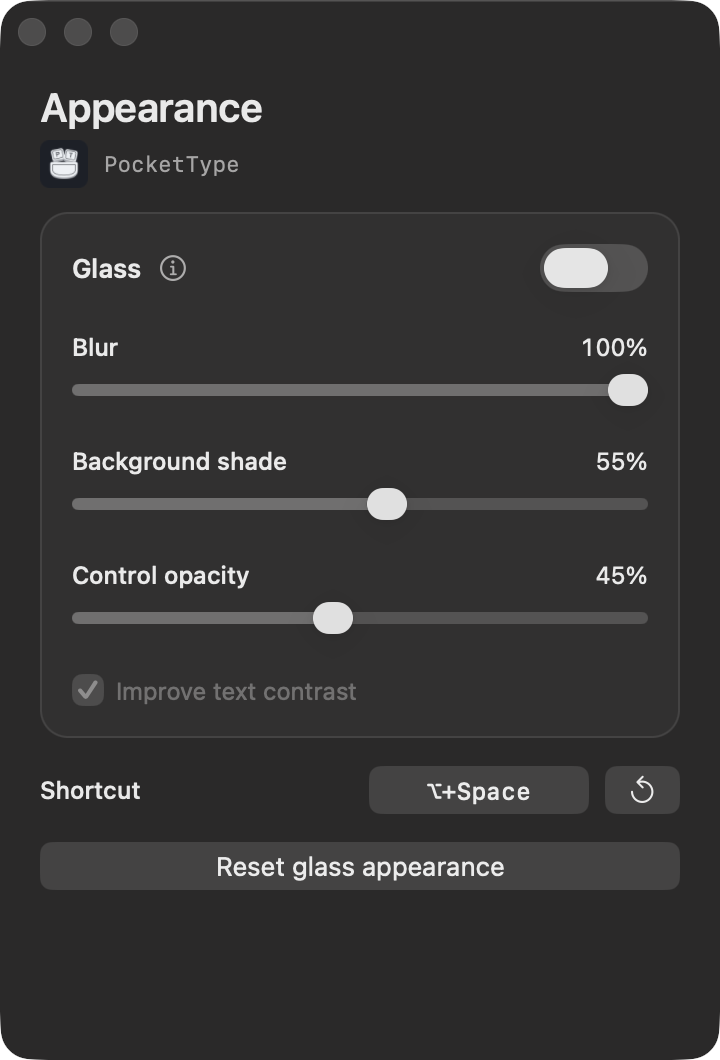
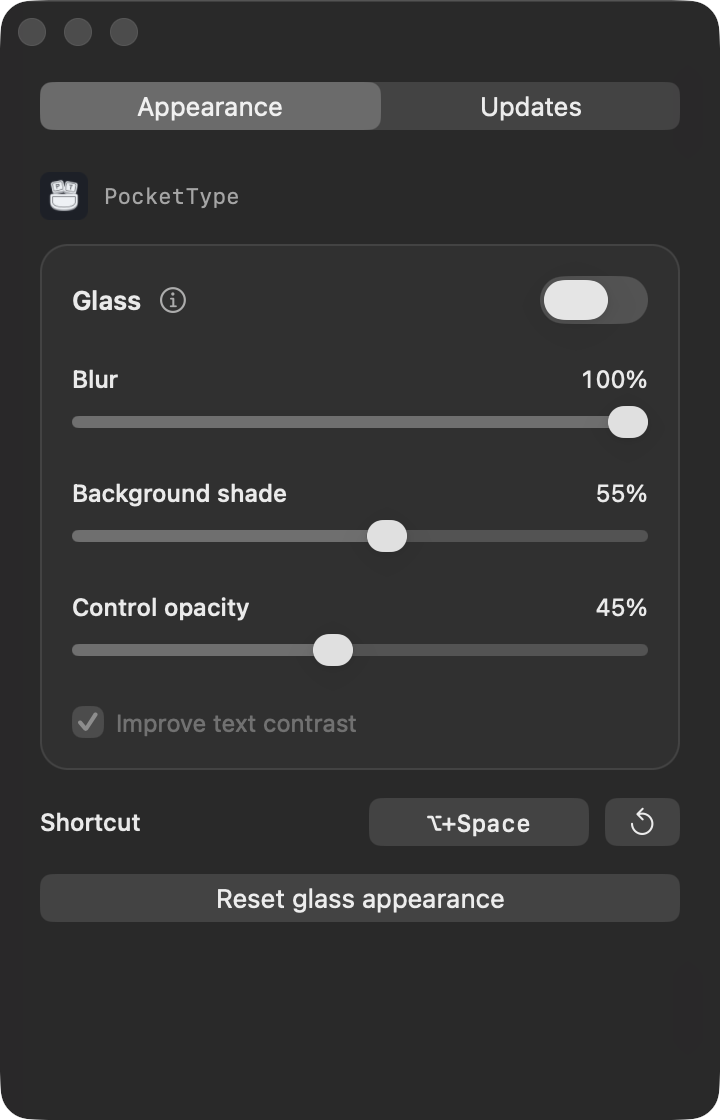
Refresh README and add verified one-command installation

diff --git a/scripts/test_install.py b/scripts/test_install.py
@@ -1,0 +1,110 @@
+"""Exercise the public installer with a signed local app and offline release assets."""
+import hashlib
+import json
+import os
+import plistlib
+import shutil
+import subprocess
+import tempfile
+import unittest
+from pathlib import Path
+
+
+class InstallerTests(unittest.TestCase):
+    @classmethod
+    def setUpClass(cls):
+        cls.fixture = tempfile.TemporaryDirectory()
+        cls.release = Path(cls.fixture.name)
+        app = cls.release / "PocketType.app"
+        (app / "Contents/MacOS").mkdir(parents=True)
+        shutil.copyfile("/usr/bin/true", app / "Contents/MacOS/PocketType")
+        (app / "Contents/MacOS/PocketType").chmod(0o755)
+        (app / "Contents/Info.plist").write_bytes(plistlib.dumps({
+            "CFBundleIdentifier": "com.local.drift.typing", "CFBundleExecutable": "PocketType",
+            "CFBundleVersion": "1.2.3", "CFBundlePackageType": "APPL",
+        }))
+        subprocess.run(["codesign", "--force", "--sign", "-", str(app)], check=True, capture_output=True)
+        cls.archive = cls.release / "PocketType.zip"
+        subprocess.run(["ditto", "-c", "-k", "--keepParent", str(app), str(cls.archive)], check=True)
+        (cls.release / "SHA256SUMS").write_text(hashlib.sha256(cls.archive.read_bytes()).hexdigest() + "  PocketType.zip\n")
+        (cls.release / "release.json").write_text(json.dumps({"tag_name": "v1.2.3"}))
+
+    @classmethod
+    def tearDownClass(cls):
+        cls.fixture.cleanup()
+
+    def setUp(self):
+        self.temp = tempfile.TemporaryDirectory()
+        self.addCleanup(self.temp.cleanup)
+        self.home = Path(self.temp.name)
+        self.dest = self.home / "Applications/PocketType.app"
+        self.bin = self.home / "bin"
+        self.bin.mkdir()
+        self.env = dict(os.environ, HOME=str(self.home), PATH=f"{self.bin}:/usr/bin:/bin:/usr/sbin:/sbin", FIXTURE=str(self.release))
+        self.command("pgrep", "exit 1")
+        self.command("open", 'printf "%s\\n" "$@" > "$HOME/opened"')
+        self.command("curl", '''
+for arg in "$@"; do
+    if [ "${next:-}" = output ]; then output="$arg"; next=""; fi
+    if [ "$arg" = -o ]; then next=output; fi
+    case "$arg" in https://*) url="$arg";; esac
+done
+case "$url" in
+    https://api.github.com/repos/AlexanderHeffernan/PocketType/releases/latest) file=release.json;;
+    https://github.com/AlexanderHeffernan/PocketType/releases/download/v1.2.3/PocketType.zip) file=PocketType.zip;;
+    https://github.com/AlexanderHeffernan/PocketType/releases/download/v1.2.3/SHA256SUMS) file=SHA256SUMS;;
+    *) exit 19;;
+esac
+cp "$FIXTURE/$file" "$output"
+if [ "${TAMPER:-}" = yes ] && [ "$file" = PocketType.zip ]; then printf tampered >> "$output"; fi
+''')
+
+    def command(self, name, body):
+        path = self.bin / name
+        path.write_text("#!/bin/bash\nset -eu\n" + body + "\n")
+        path.chmod(0o755)
+
+    def install(self):
+        return subprocess.run(["bash", str(Path(__file__).resolve().parent.parent / "install.sh")],
+                              env=self.env, text=True, capture_output=True)
+
+    def existing_app(self):
+        shutil.copytree(self.release / "PocketType.app", self.dest)
+        (self.dest / "keep-me").write_text("previous installation")
+
+    def test_install_and_replace_only_after_validation(self):
+        for attempt in range(2):
+            if attempt:
+                (self.dest / "previous-only").write_text("old installation")
+            result = self.install()
+            self.assertEqual(result.returncode, 0, result.stdout + result.stderr)
+            self.assertEqual(plistlib.loads((self.dest / "Contents/Info.plist").read_bytes())["CFBundleVersion"], "1.2.3")
+            self.assertFalse((self.dest / "previous-only").exists())
+            self.assertIn(str(self.dest), (self.home / "opened").read_text())
+        self.assertEqual(list(self.dest.parent.glob(".pockettype-install.*")), [])
+
+    def test_bad_download_does_not_replace_or_launch_existing_app(self):
+        self.existing_app()
+        self.env["TAMPER"] = "yes"
+        result = self.install()
+        self.assertNotEqual(result.returncode, 0)
+        self.assertEqual((self.dest / "keep-me").read_text(), "previous installation")
+        self.assertFalse((self.home / "opened").exists())
+
+    def test_refuses_unrelated_app_and_dangling_symlink(self):
+        self.existing_app()
+        info = self.dest / "Contents/Info.plist"
+        info.write_bytes(plistlib.dumps({"CFBundleIdentifier": "another.app"}))
+        self.assertNotEqual(self.install().returncode, 0)
+        self.assertTrue((self.dest / "keep-me").exists())
+        shutil.rmtree(self.dest)
+        self.dest.symlink_to(self.home / "missing.app")
+        self.assertNotEqual(self.install().returncode, 0)
+        self.assertTrue(self.dest.is_symlink())
+
+    def test_failed_move_restores_previous_app(self):
+        self.existing_app()
+        self.command("mv", 'case "$1" in */unpacked/PocketType.app) exit 23;; esac\nexec /bin/mv "$@"')
+        self.assertNotEqual(self.install().returncode, 0)
+        self.assertEqual((self.dest / "keep-me").read_text(), "previous installation")
+        self.assertFalse((self.home / "opened").exists())

diff --git a/README.md b/README.md
@@ -1,64 +1,59 @@
 <p align="center">
-  <img src="Sources/Drift/Resources/AppIcon.png" width="128" alt="PocketType app icon" />
+  <img src="Sources/Drift/Resources/AppIcon.png" width="96" alt="PocketType app icon" />
 </p>
 
 <h1 align="center">PocketType</h1>
 
-<p align="center"><strong>Monkeytype, a shortcut away.</strong></p>
-
 <p align="center">
-  <img src="https://img.shields.io/badge/macOS-14%2B-1c2028?style=for-the-badge&amp;logo=apple&amp;logoColor=white" alt="macOS 14+" />
-  <img src="https://img.shields.io/badge/Swift-6-F05138?style=for-the-badge&amp;logo=swift&amp;logoColor=white" alt="Swift 6" />
-  <a href="LICENSE"><img src="https://img.shields.io/badge/license-GPL--3.0-9fa3aa?style=for-the-badge" alt="GPL-3.0-only" /></a>
+  <a href="https://github.com/AlexanderHeffernan/PocketType/actions/workflows/release.yml"><img src="https://github.com/AlexanderHeffernan/PocketType/actions/workflows/release.yml/badge.svg?branch=main" alt="Check &amp; Release" /></a>
+  <a href="https://github.com/AlexanderHeffernan/PocketType/releases/latest"><img src="https://img.shields.io/github/v/release/AlexanderHeffernan/PocketType" alt="Latest release" /></a>
+  <img src="https://img.shields.io/badge/macOS-14%2B-1c2028?logo=apple&amp;logoColor=white" alt="macOS 14+" />
+  <a href="LICENSE"><img src="https://img.shields.io/badge/license-GPL--3.0-9fa3aa" alt="GPL-3.0-only" /></a>
 </p>
 
-You're waiting for a build, an AI agent, or your next meeting. You want a little typing practice—not another browser tab to find.
+PocketType is a native macOS menu-bar app for [Monkeytype](https://monkeytype.com). Press **Option–Space** to bring up the typing screen, and press it again to hide it.
 
-Press **Option–Space**. PocketType brings the real [Monkeytype](https://monkeytype.com) website into a native macOS overlay. Practise, view your results, and hide it with the same shortcut. It stays ready in your menu bar.
+It loads the real website, so you keep Monkeytype's tests, themes, results, and account history.
 
-PocketType is an independent companion, **not affiliated with or endorsed by Monkeytype**. It isn't an offline clone: Monkeytype still owns the typing engine, modes, themes, scoring, and account history.
+## Install
 
-![PocketType's native overlay header](docs/screenshots/overlay-header.png)
+Requires **macOS 14+** and an internet connection. Supports **Apple Silicon and Intel**. No GitHub account, developer tools, or administrator access needed.
 
-## What you get
+Paste this into Terminal:
 
-- **One shortcut, no Dock clutter.** A floating overlay with a smooth entrance and exit. Change the shortcut in Settings.
-- **Actual Monkeytype.** Your familiar tests, results, themes, and account—not a second scoring system.
-- **A focused view.** No website navbar, footer links, merch banner, or ad slots. Important dialogs and notices remain.
-- **Optional glass.** An experimental native frosted background for practice, with live blur, shade, control-opacity, and contrast settings. Other pages retain their normal theme.
-- **A window that fits your workflow.** Drag the top to move, drag the edges to resize. Position and size persist; the menu-bar reset gets you back to a sensible default.
-- **A persistent session.** The website stays loaded while hidden. Sign in once using the email/password form and enable “remember me.”
-- **Updates without the terminal.** Check from Settings, or enable automatic checks. Signed updates install when you choose to restart.
+```sh
+curl -fsSL https://raw.githubusercontent.com/AlexanderHeffernan/PocketType/main/install.sh | bash
+```
+
+The [installer](install.sh) verifies the release checksum, installs to **`~/Applications`**, and opens PocketType. Press **Option–Space** to practise. It uses no `sudo` and does not remove macOS quarantine.
+
+Prefer to install manually? [Download PocketType.zip](https://github.com/AlexanderHeffernan/PocketType/releases/latest/download/PocketType.zip), unzip it, and move **PocketType.app** into Applications.
+
+**First launch:** releases are not Apple-notarised. If macOS blocks the app, use **System Settings → Privacy & Security → Open Anyway** only if you trust the download. Signed in-app updates do not replace Apple notarisation.
+
+![PocketType showing the full Monkeytype practice screen](docs/screenshots/practice.png)
+
+## Features
+
+- **A configurable global shortcut.** Show and hide the floating window without finding a browser tab. No Dock icon.
+- **A focused typing screen.** Website navigation, footer links, merch banners, and ad slots are hidden. Tests, results, and important notices remain.
+- **Optional glass.** Adjust blur, background shade, control opacity, and text contrast while previewing the practice window.
+- **Move and resize.** Drag the header or window edges. Position and size persist, with a reset in the menu-bar menu.
+- **Stay signed in.** Use Monkeytype's email/password login with normal copy and paste, and enable “remember me” to keep your session. The website stays loaded while hidden.
+- **In-app updates.** Check from Settings or the menu bar, with optional automatic checks and signed downloads.
 
 <table>
   <tr>
-    <td align="center"><img src="docs/screenshots/appearance.png" width="330" alt="Appearance settings with live glass controls" /><br /><sub>Make the glass your own</sub></td>
-    <td align="center"><img src="docs/screenshots/about.png" width="360" alt="About PocketType with attribution" /><br /><sub>A small native companion</sub></td>
+    <td align="center"><img src="docs/screenshots/appearance.png" width="330" alt="Appearance settings with live glass controls" /><br /><sub>Appearance</sub></td>
+    <td align="center"><img src="docs/screenshots/updates.png" width="330" alt="Update settings with automatic checks enabled" /><br /><sub>Updates</sub></td>
   </tr>
 </table>
 
-## Get started
+### Updates and launch at login
 
-Requires **macOS 14+** and an internet connection. No GitHub account or CLI is needed to use PocketType.
+Use **Settings → Updates → Check for Updates…**, or **Check for Updates…** in the menu bar. Automatic checks run about every six hours while the app is running and can be disabled. Updates are not silently installed by default.
 
-1. Download **[PocketType.zip from the latest release](https://github.com/AlexanderHeffernan/PocketType/releases/latest)**.
-2. Unzip it and move **PocketType.app** to Applications.
-3. Open it, then press **Option–Space** to practise.
-
-The download supports **Apple Silicon and Intel**. Current releases are **not notarised**: macOS may block the first launch. After trying to open it, use **System Settings → Privacy & Security → Open Anyway** if you trust this download. Sparkle's update signatures verify future updates, but are not Apple notarisation.
-
-Under **Settings → Updates**, use **Check for Updates…** or turn automatic checks on/off. Automatic checks run about every six hours while PocketType is running; you still choose when to install and restart.
-
-Or build from source with the Xcode command-line tools and Swift 6:
-
-```sh
-git clone https://github.com/AlexanderHeffernan/PocketType.git
-cd PocketType
-./build.sh
-open build/PocketType.app
-```
-
-Move the app into Applications to keep it. Optionally add it under **System Settings → General → Login Items**.
+To start PocketType when you log in, add it under **System Settings → General → Login Items**.
 
 ## A few things to know
 
@@ -78,10 +73,15 @@ The stable bundle identifier is `com.local.drift.typing`, retained from early lo
 
 ## Development
 
+Requires the Xcode command-line tools with Swift 6. To build from source:
+
 ```sh
+git clone https://github.com/AlexanderHeffernan/PocketType.git
+cd PocketType
 swift test
 ./build.sh
 codesign --verify --deep --strict build/PocketType.app
+open build/PocketType.app
 ```
 
 Native Swift/AppKit shell, WKWebView, and a small Objective-C boundary for the experimental background API. The internal Swift target is still named `Drift`. Editable logo sources are in [`Assets/`](Assets/). See [development notes](docs/DEVELOPMENT.md) for layout, glass behaviour, limitations, and architecture details.
@@ -94,4 +94,4 @@ Bug reports and small, focused pull requests are welcome. Include your macOS ver
 
 ## License and attribution
 
-[GPL-3.0-only](LICENSE) © Alexander Heffernan. Monkeytype is a separate GPL-3.0 project by Miodec and its contributors: [upstream source](https://github.com/monkeytypegame/monkeytype). Its website is loaded remotely, not bundled here. Monkeytype's name and branding belong to their respective owners; this licence does not imply endorsement or grant trademark rights.
+[GPL-3.0-only](LICENSE) © Alexander Heffernan. PocketType is an independent companion, **not affiliated with or endorsed by Monkeytype**. Monkeytype is a separate GPL-3.0 project by Miodec and its contributors: [upstream source](https://github.com/monkeytypegame/monkeytype). Its website is loaded remotely, not bundled here. Monkeytype's name and branding belong to their respective owners; this licence does not imply endorsement or grant trademark rights.

diff --git a/THIRD_PARTY_NOTICES.md b/THIRD_PARTY_NOTICES.md
@@ -6,7 +6,7 @@ PocketType bundles [Sparkle 2](https://github.com/sparkle-project/Sparkle), dist
 
 ## Release tooling
 
-Release workflow and signature-verification tooling are adapted from [GitGaze](https://github.com/AlexanderHeffernan/GitGaze).
+Release workflow, installer, and signature-verification tooling are adapted from [GitGaze](https://github.com/AlexanderHeffernan/GitGaze).
 
 MIT License
 
